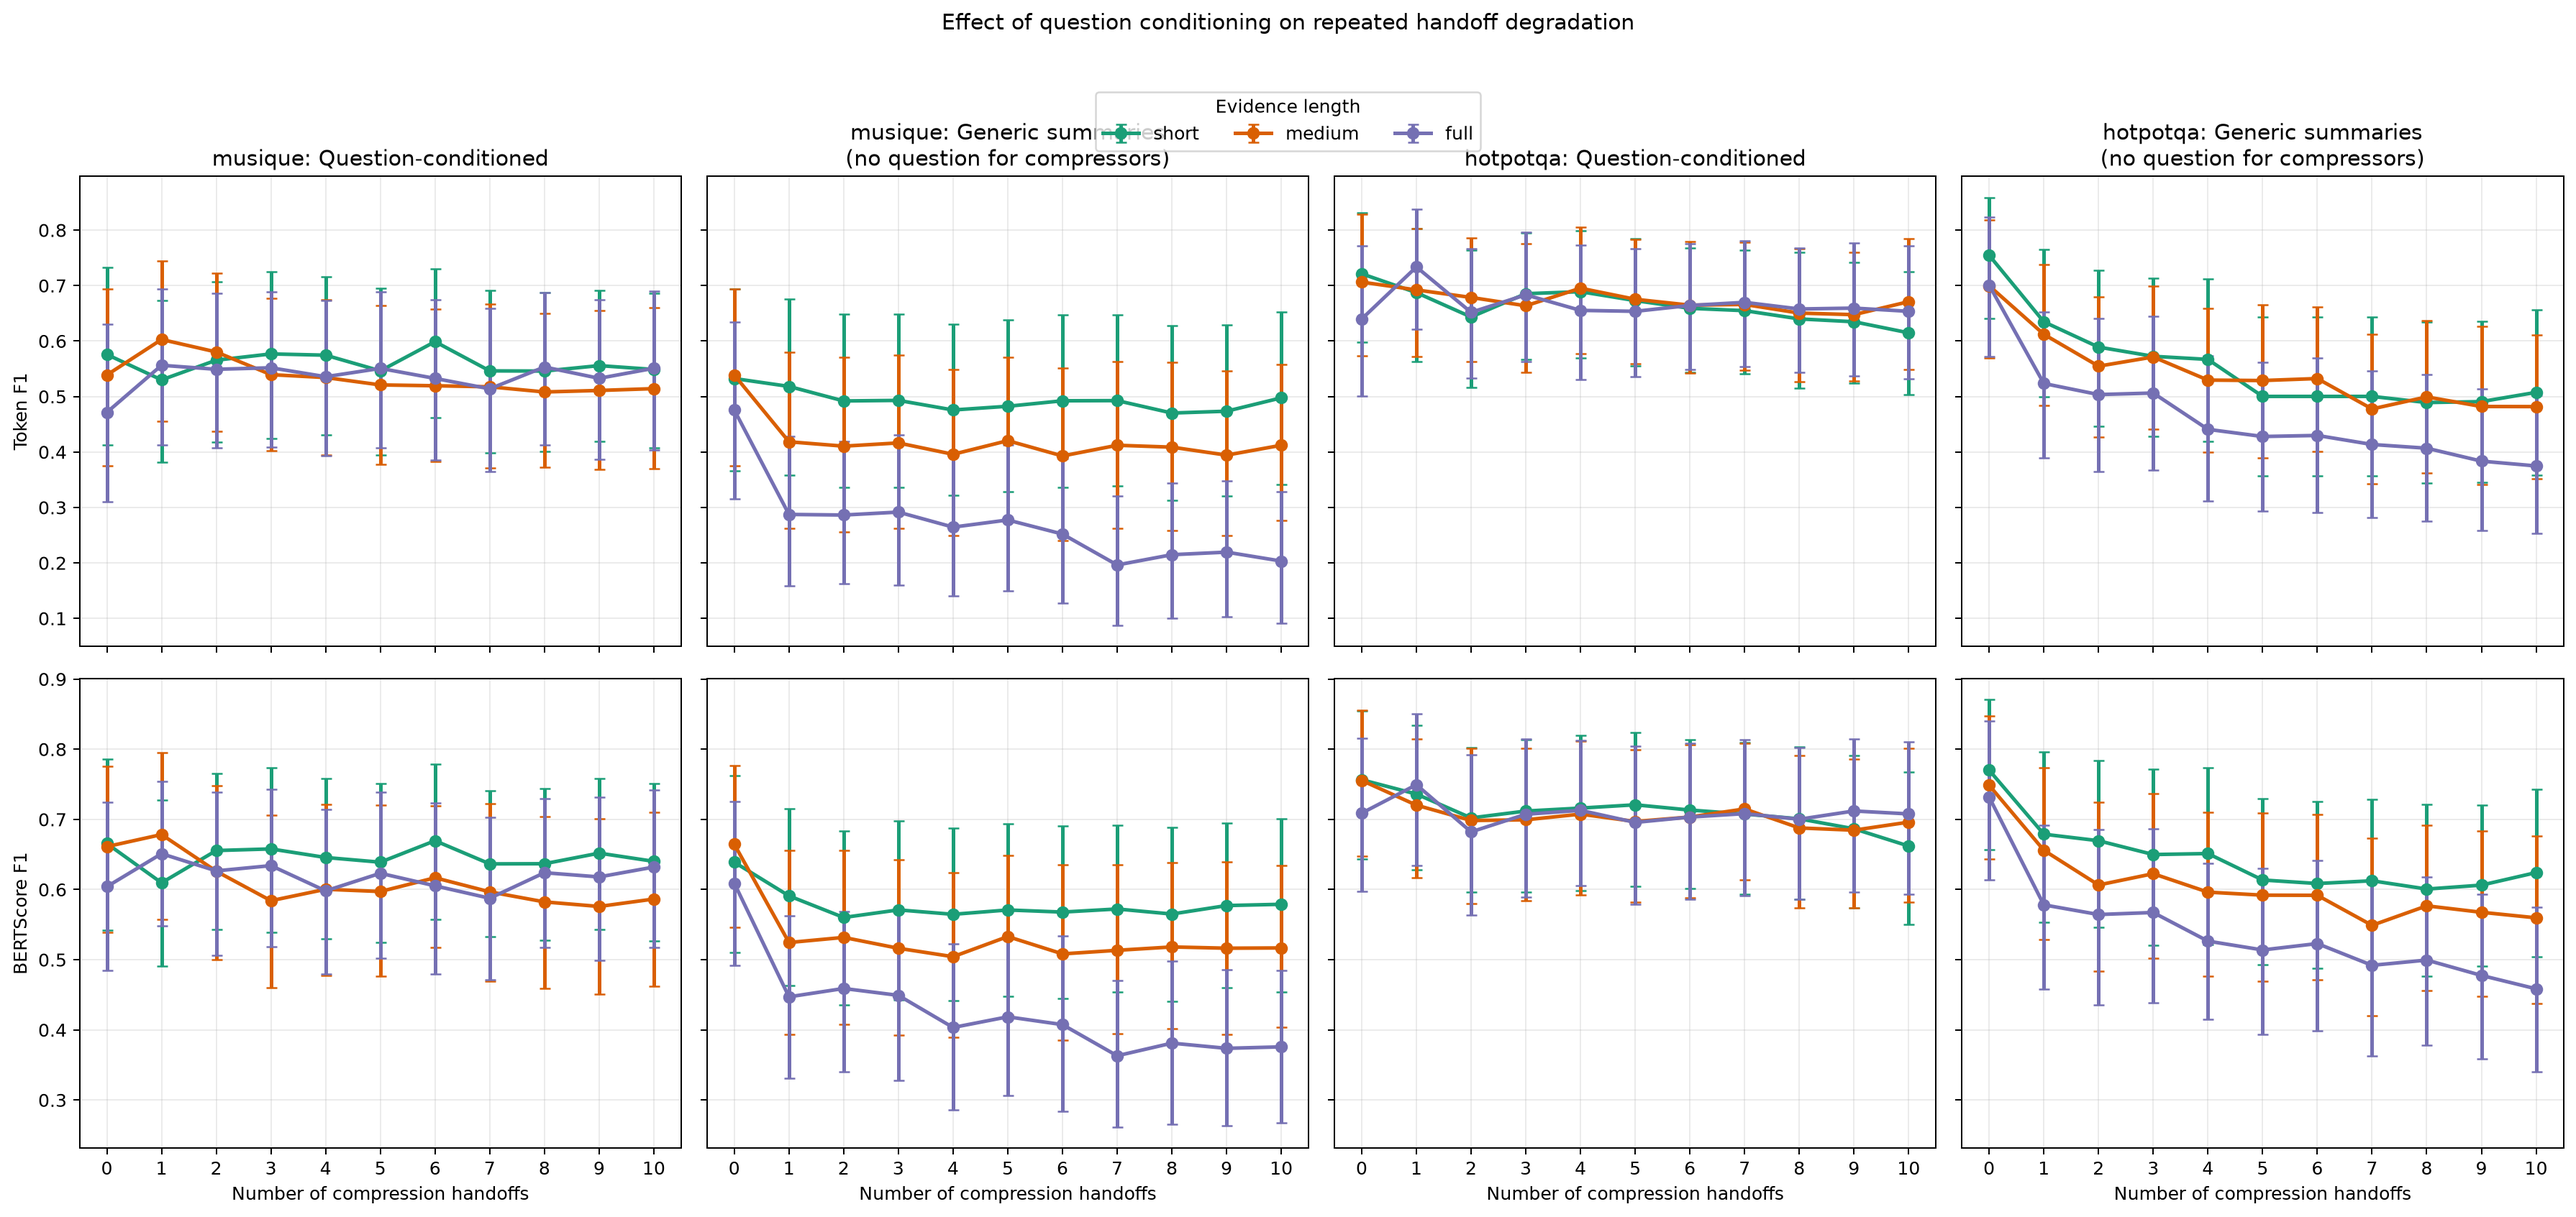
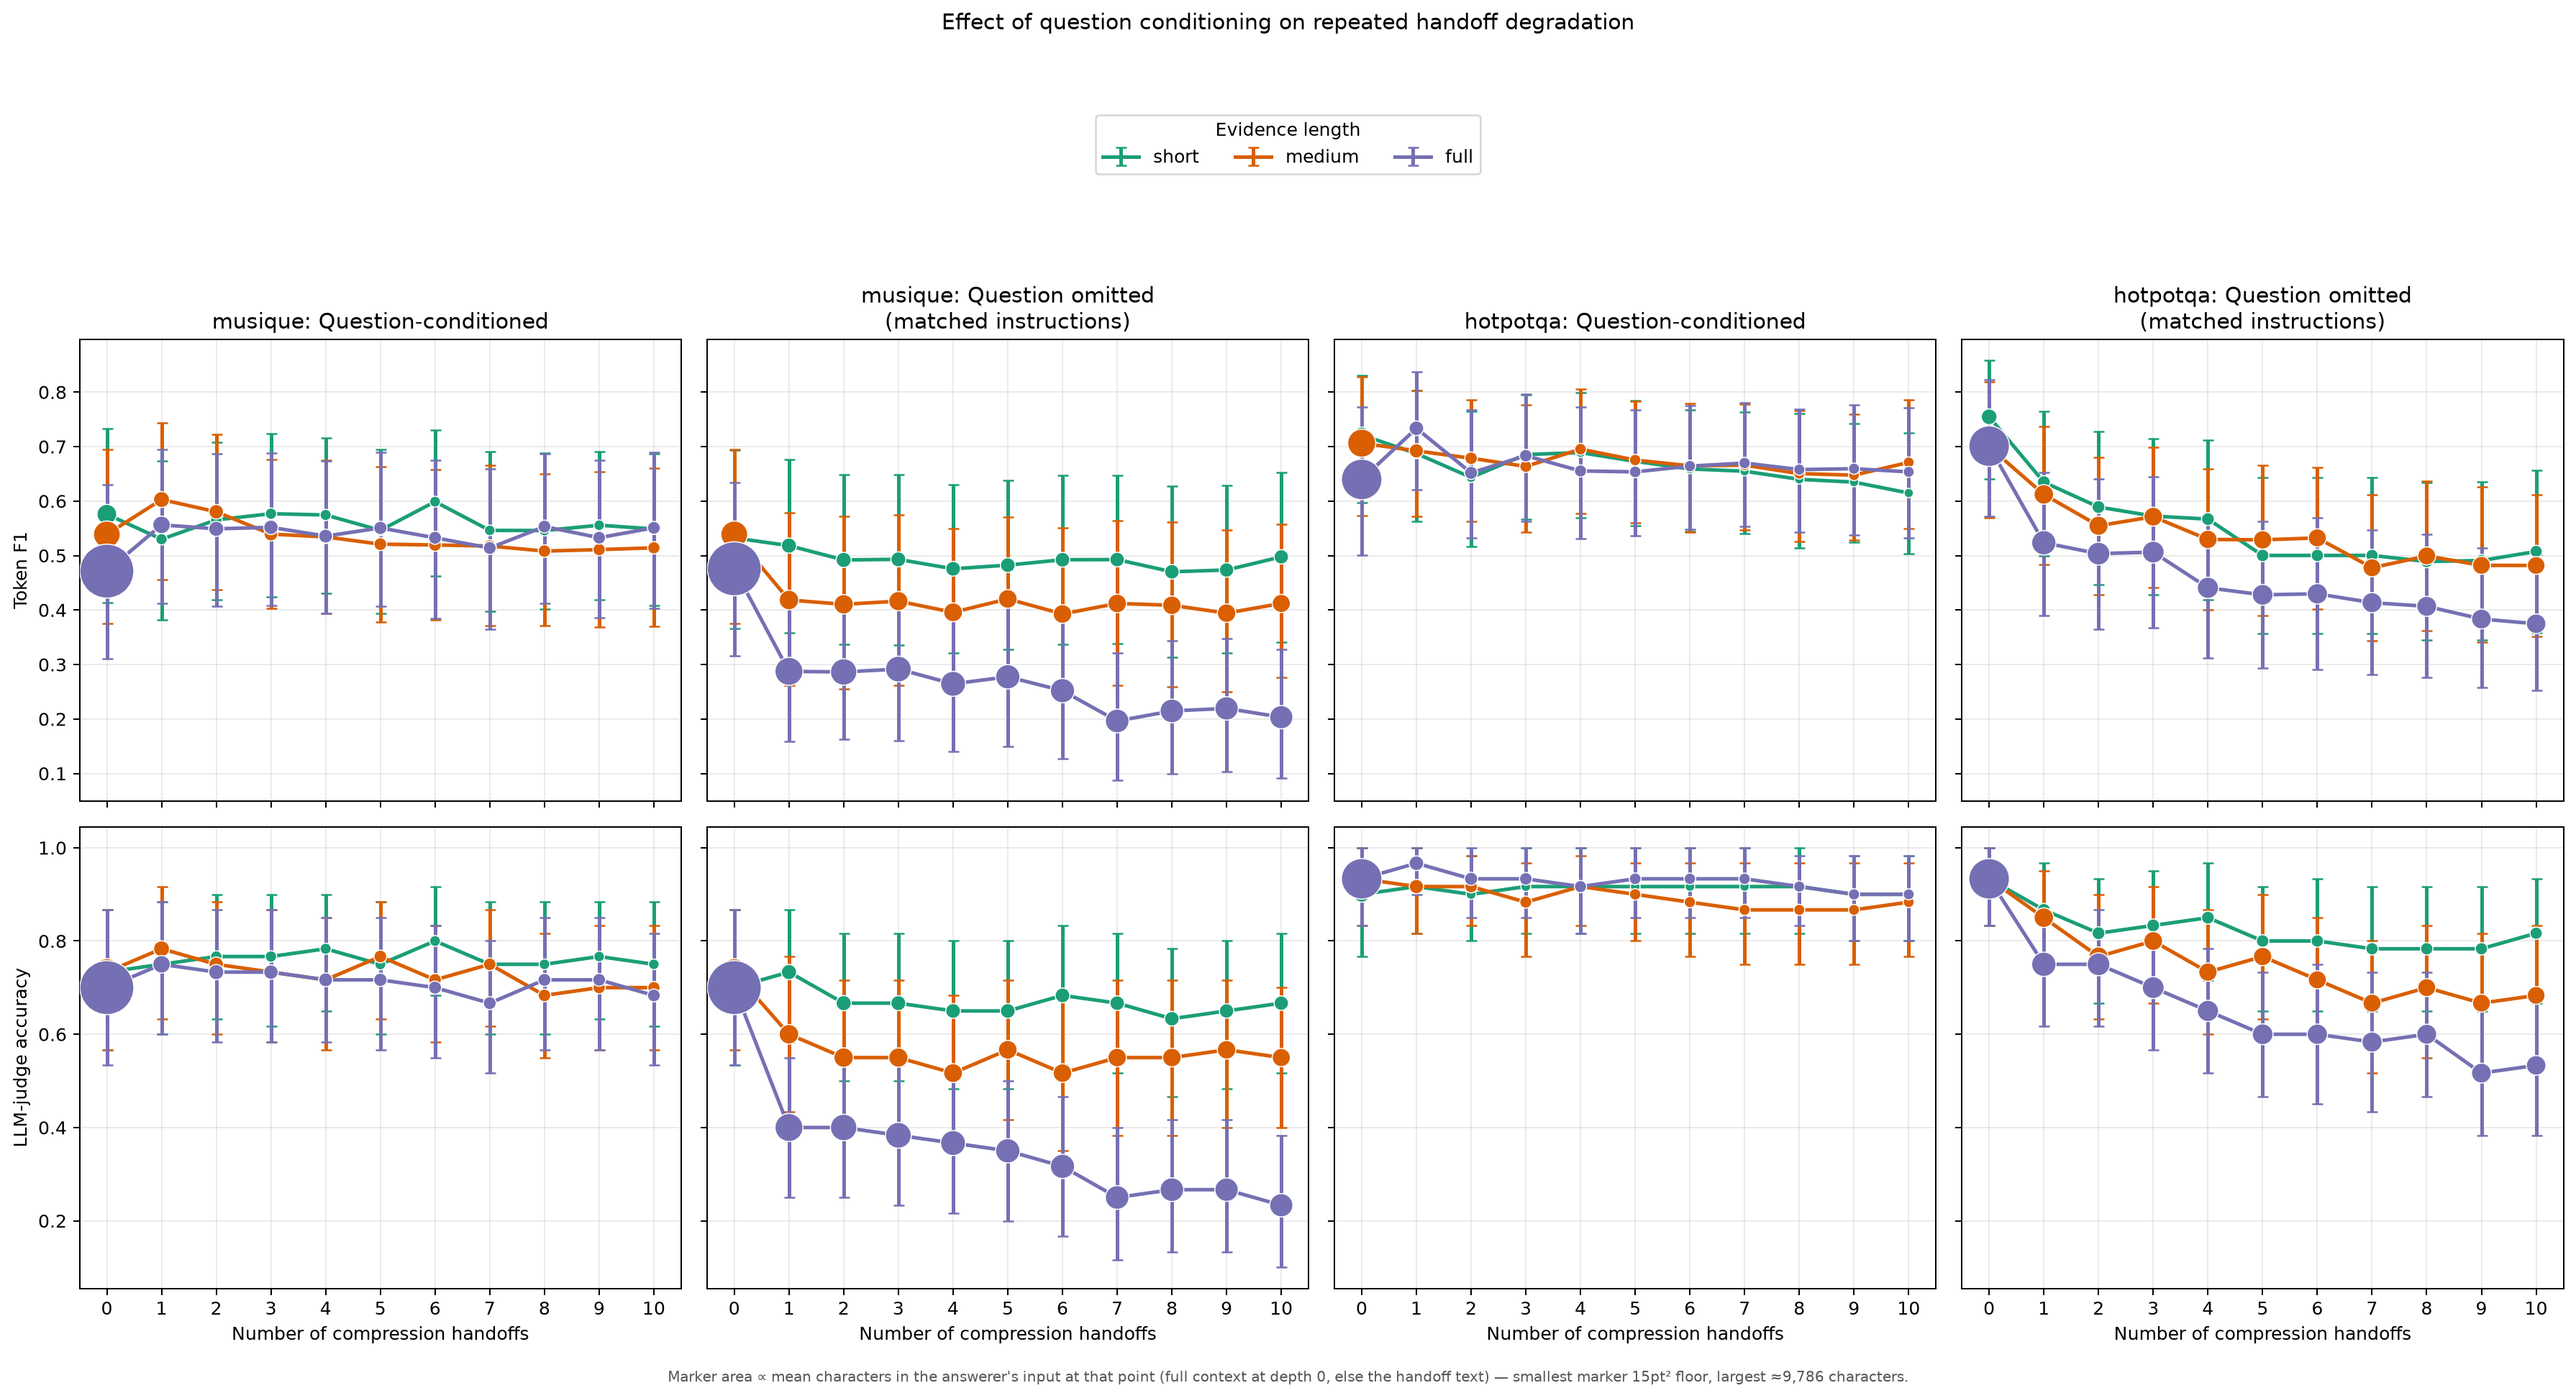
Fix stale BERTScore/path references in conditioning_comparison plot, size-encode it, update report with real judge numbers
src/plot_conditioning_comparison.py still referenced bertscore_f1 (never
migrated when the rest of the pipeline switched to the LLM judge) and
defaulted to results/chain_question_omitted/, a path removed during the
earlier cleanup pass -- both stale since chain_generic became the real
completed question-omission run. Fixed both, and applied the same
size-encoded markers as run_chain.py's degradation plot (marker area
proportional to the answerer's input size) for consistency across every
Experiment 2 figure. Also fixed a legend/title overlap in the regenerated
layout.

The "Matched question-omission replication" section of
HANDOFF_EXPERIMENTS_REPORT.md previously said this replication "predates
the LLM-judge addition... a judge rerun would be needed" -- stale as of
the previous commit, where regenerating this same plot triggered a real
judge pass as a side effect. Replaced the caveat with the actual result:
unlike the main serial-degradation finding (where the judge flattened the
token-F1 signal), here the judge corroborates F1 at every dataset/context
pair, often by a larger margin.

diff --git a/src/plot_conditioning_comparison.py b/src/plot_conditioning_comparison.py
@@ -40,7 +40,21 @@ def make_plot(conditioned: list[dict], generic: list[dict], output: Path) -> Non
     import matplotlib.pyplot as plt
 
     by_condition = {"question-conditioned": conditioned, "question-omitted": generic}
-    metrics = [("f1", "Token F1"), ("bertscore_f1", "BERTScore F1")]
+    metrics = [("f1", "Token F1"), ("judge_correct", "LLM-judge accuracy")]
+    # Same size encoding as run_chain.py's make_plot(): marker area proportional
+    # to the mean size (characters) of whatever text fed the answerer at that
+    # point, one scale for the whole figure so area is comparable across both
+    # conditions and both datasets.
+    all_chars = [as_float(r, "handoff_characters_mean") for rows in by_condition.values() for r in rows
+                if "handoff_characters_mean" in r]
+    max_chars = max(all_chars) if all_chars else 1.0
+    max_area, min_area = 900.0, 15.0
+    size_scale = max_area / max_chars
+
+    def marker_area(row: dict) -> float:
+        chars = row.get("handoff_characters_mean")
+        return max_area if chars is None else max(min_area, size_scale * as_float(row, "handoff_characters_mean"))
+
     fig, axes = plt.subplots(2, 4, figsize=(20, 9), sharex=True, sharey="row", squeeze=False)
 
     for row_idx, (metric, label) in enumerate(metrics):
@@ -61,9 +75,11 @@ def make_plot(conditioned: list[dict], generic: list[dict], output: Path) -> Non
                     lower = [v - as_float(r, f"{metric}_lo") for r, v in zip(subset, y)]
                     upper = [as_float(r, f"{metric}_hi") - v for r, v in zip(subset, y)]
                     axis.errorbar(
-                        x, y, yerr=[lower, upper], marker="o", linewidth=2,
-                        capsize=3, label=variant, color=COLORS[variant],
+                        x, y, yerr=[lower, upper], marker="", linewidth=2,
+                        capsize=3, label=variant, color=COLORS[variant], zorder=2,
                     )
+                    axis.scatter(x, y, s=[marker_area(r) for r in subset], color=COLORS[variant],
+                                edgecolors="white", linewidths=0.6, zorder=3)
                 if row_idx == 0:
                     axis.set_title(f"{dataset}: {condition_label}")
                 if row_idx == 1:
@@ -75,9 +91,14 @@ def make_plot(conditioned: list[dict], generic: list[dict], output: Path) -> Non
 
     handles, labels = axes[0][0].get_legend_handles_labels()
     fig.legend(handles, labels, title="Evidence length", loc="upper center", ncol=3,
-               bbox_to_anchor=(0.5, 0.98))
-    fig.suptitle("Effect of question conditioning on repeated handoff degradation", y=1.04)
-    fig.tight_layout()
+               bbox_to_anchor=(0.5, 1.1))
+    fig.suptitle("Effect of question conditioning on repeated handoff degradation", y=1.18)
+    fig.tight_layout(rect=(0, 0.02, 1, 1))
+    fig.text(0.5, 0.005,
+              f"Marker area ∝ mean characters in the answerer's input at that point "
+              f"(full context at depth 0, else the handoff text) — smallest marker "
+              f"{min_area:.0f}pt² floor, largest ≈{max_chars:,.0f} characters.",
+              ha="center", fontsize=8, color="#555555")
     output.parent.mkdir(parents=True, exist_ok=True)
     fig.savefig(output, dpi=180, bbox_inches="tight")
     plt.close(fig)
@@ -87,9 +108,9 @@ def main() -> int:
     parser = argparse.ArgumentParser(description="Compare conditioned and generic handoff chains")
     parser.add_argument("--conditioned", type=Path, default=ROOT / "results/chain/stage_metrics.csv")
     parser.add_argument("--generic", type=Path,
-                        default=ROOT / "results/chain_question_omitted/stage_metrics.csv")
+                        default=ROOT / "results/chain_generic/stage_metrics.csv")
     parser.add_argument("--output", type=Path,
-                        default=ROOT / "results/chain_question_omitted/conditioning_comparison.png")
+                        default=ROOT / "results/chain_generic/conditioning_comparison.png")
     args = parser.parse_args()
     make_plot(read_metrics(args.conditioned), read_metrics(args.generic), args.output)
     print(f"[conditioning-comparison] wrote {args.output}")

diff --git a/results/HANDOFF_EXPERIMENTS_REPORT.md b/results/HANDOFF_EXPERIMENTS_REPORT.md
@@ -119,22 +119,22 @@ Reconciled cost was **$0.0443** across Qwen-specific leakage filtering, 300 summ
 
 This is the minimal counterpart to the main serial chain: same Llama 3.3 70B model, fixed filtered question sample, all three evidence variants, depths 0–10, two seeds, system prompt, and handoff instructions. The sole difference is prompt visibility — neither the initial compressor nor any later compressor receives the final-question block; the fresh answerer still receives the question. An automated equivalence check (`prompt_difference_selftest` in the code) verifies that removing that block makes the two compressor prompts byte-identical, so the only variable is question visibility.
 
-Depth-10 Token F1 change from direct depth 0, question-conditioned vs question-omitted:
+Depth-10 change from direct depth 0, question-conditioned vs question-omitted:
 
-| Dataset | Context | Conditioned | Question-omitted |
-|---|---|---:|---:|
-| MuSiQue | Short | −0.027 | −0.035 |
-| MuSiQue | Medium | −0.025 | −0.127 |
-| MuSiQue | Full | **+0.080** | **−0.272** |
-| HotpotQA | Short | −0.107 | −0.247 |
-| HotpotQA | Medium | −0.035 | −0.218 |
-| HotpotQA | Full | +0.014 | **−0.326** |
+| Dataset | Context | Conditioned F1 | Omitted F1 | Conditioned judge | Omitted judge |
+|---|---|---:|---:|---:|---:|
+| MuSiQue | Short | −0.027 | −0.035 | +0.017 | −0.033 |
+| MuSiQue | Medium | −0.025 | −0.127 | −0.033 | −0.183 |
+| MuSiQue | Full | **+0.080** | **−0.272** | −0.017 | **−0.467** |
+| HotpotQA | Short | −0.107 | −0.247 | +0.000 | −0.117 |
+| HotpotQA | Medium | −0.035 | −0.218 | −0.050 | −0.250 |
+| HotpotQA | Full | +0.014 | **−0.326** | −0.033 | **−0.400** |
 
-Every condition is worse without the question, and the gap widens with more distractors: full-context degradation goes from mildly positive to the worst result in either chain. This is consistent with the denoising story in §2 — a compressor can only filter distractors *toward* a task it knows, and full-context evidence has the most distractor mass to filter. It also complements §5's finding below: §5 shows conditioning narrows a summary toward one task at the cost of others; this replication shows the opposite failure mode — a compressor with no task at all keeps too much noise and too little signal for any task.
+Every condition is worse without the question, and the gap widens with more distractors: full-context degradation goes from mildly positive (conditioned) to the worst result in either chain (omitted). This is consistent with the denoising story in §2 — a compressor can only filter distractors *toward* a task it knows, and full-context evidence has the most distractor mass to filter. It also complements §5's finding below: §5 shows conditioning narrows a summary toward one task at the cost of others; this replication shows the opposite failure mode — a compressor with no task at all keeps too much noise and too little signal for any task.
 
-**Metric caveat:** this replication predates the 2026-08-20 LLM-judge addition (§2) and is scored on token F1 and BERTScore only. Given §2's finding that token F1 can substantially overstate degradation relative to judged answer correctness, treat the magnitudes above as directional rather than final; a judge rerun would be needed before quoting exact point estimates.
+**Judge update, 2026-08-20:** this replication now has real LLM-judge scores (added as a side effect of regenerating its plot with the new size-encoding — see §2 above). Unlike the main serial-degradation result, where the judge flattened the token-F1 signal almost to zero, **here the judge corroborates F1 rather than contradicting it**: question-omitted is worse than conditioned by the judge at every single dataset/context pair, matching F1's direction throughout, and often by a larger margin (MuSiQue full: −0.017 conditioned vs **−0.467** omitted; HotpotQA full: −0.033 vs **−0.400**). This is the same asymmetry noted for §5's judge update below — some findings in this report survive judged-correctness scrutiny and some don't, and this one does.
 
-Cost: **$0.9564** (7,000 live calls, 20 cached).
+Cost: **$0.9564** (7,000 live calls, 20 cached) for the original chain, plus **$0.0105** (341 live, 3,439 cached) for the judge pass.
 
 ## 3. Retrieval quality through repeated handoffs
 
